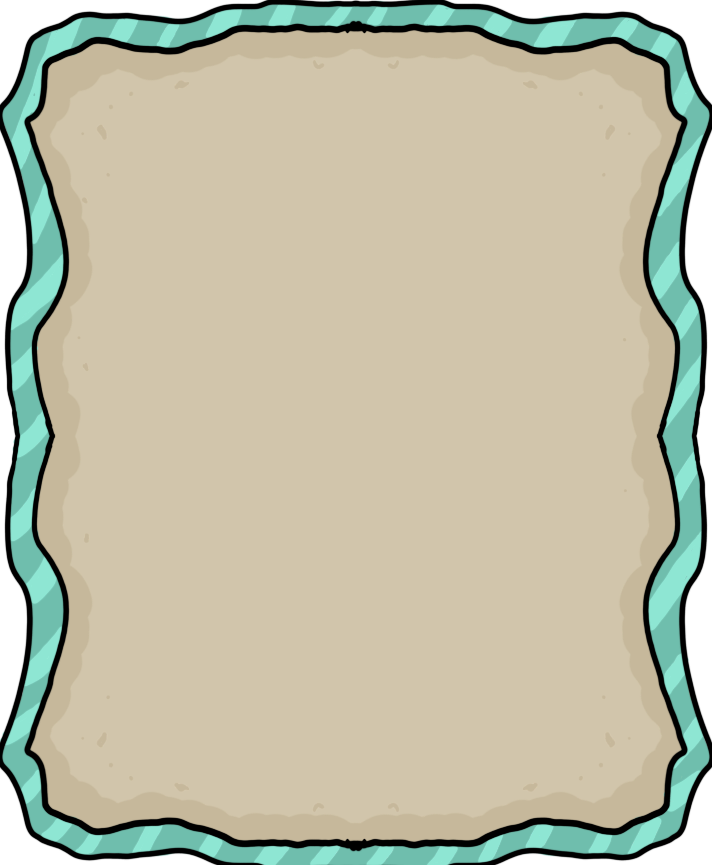
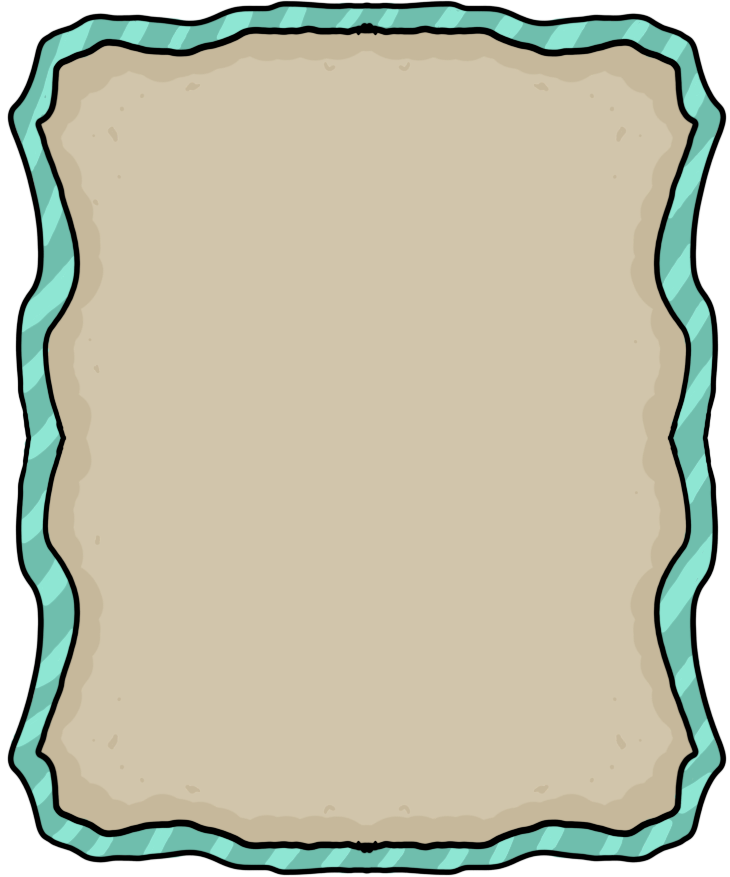
Adde background to code area, added buttons to compile code

Changed region(s): [[0.0, 0.0, 1.0, 1.0]]

diff --git a/assets/stylesheets/level_1.css b/assets/stylesheets/level_1.css
@@ -70,14 +70,14 @@ table {
 #main-screen{
     width: 100%;
     height: 90%;
-    margin-top: 5%;
+    margin-top: 3%;
 }
 
 #canvas-wrapper{
     display: inline-block;
     position: relative;
     width: 70%;
-    height: 750px;
+    height: 950px;
     white-space: nowrap;
 }
 
@@ -88,16 +88,16 @@ table {
 
 }
 
-#user-interface{
+#code-area{
     position: absolute;
     display: inline-block;
-    width: 29%;
-    height: 750px;
+    width: 30%;
+    height: 790px;
     min-height: 300px;
     background-image: url("../Images/console.png");
-    background-size: auto;
-    background-position:50% 50%;
+    background-position:center top;
     background-size:cover;
+    background-repeat: no-repeat;
 }
 
 #code{
@@ -106,17 +106,45 @@ table {
     width: 70%;
     height: 600px;
     font-family: "Arial";
-    font-size: 16px;
+    font-size: 22px;
     background-color: transparent;
     background-size:cover;
+
 }
 
 #run{
-    margin-top: 5px;
-    margin-left: 40%;
-    width: 150px;
-    height: 30px;
+    display: inline-block;
+    position: relative;
+    margin-right: 5%;
+    margin-left: 5%;
+    left: 1%;
+    top: 15%;
+    width: 270px;
+    height: 150px;
     font-family: "Maiandra GD";
+    border-radius: 25px;
     font-size: 22px;
     font-weight: bold;
+
+}
+
+#stop{
+    display: inline-block;
+    position: relative;
+    top: 15%;
+    width: 270px;
+    height: 150px;
+    font-family: "Maiandra GD";
+    border-radius: 25px;
+    font-size: 22px;
+    font-weight: bold;
+
+}
+
+.background {
+    z-index: -1;
+    top:0;
+    left:0;
+    width:100%;
+    height:100%;
 }

diff --git a/level_1.html b/level_1.html
@@ -14,12 +14,10 @@
         </canvas>
     </div>
 
-    <div id="user-interface">
-        <div id="line_counter">
-
-        </div>
-        <textarea id="code">#Write you code here</textarea>
-        <button id="run" onclick="Run()"> Run </button>
+    <div id="code-area">
+        <textarea id="code">/*Write you code here*/</textarea>
+        <img id="run" class="controls" onclick="Run()" src="../ProjectDiplom/assets/Images/Execute.png"/>
+        <img id="stop" class="controls" onclick="Run()" src="../ProjectDiplom/assets/Images/Execute.png"/>
     </div>
 </div>
 
